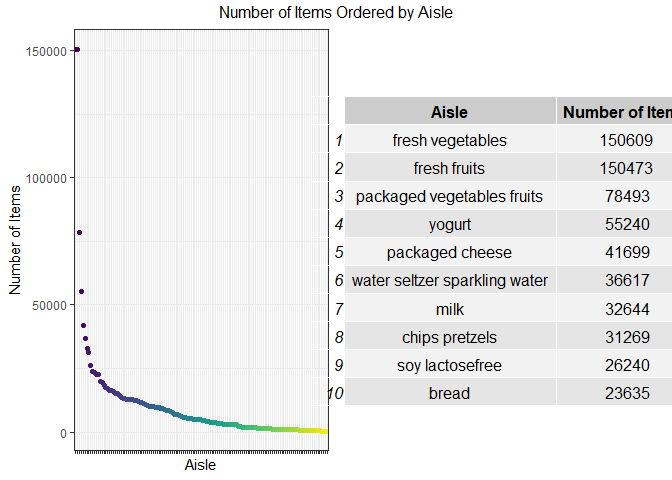
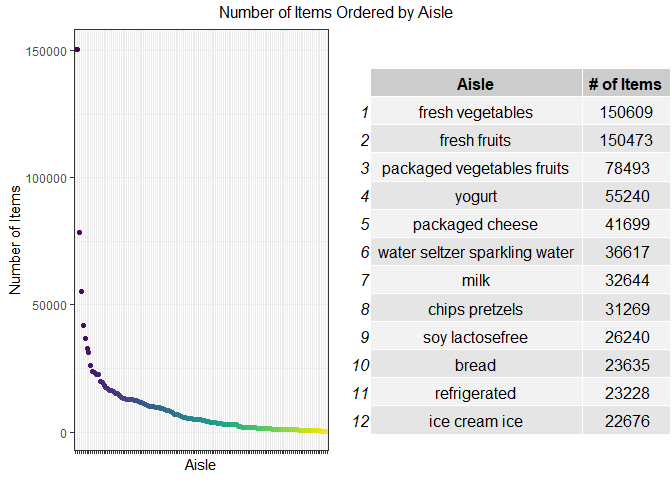
formatting updates

diff --git a/p8105_hw3_alc2279.md b/p8105_hw3_alc2279.md
@@ -112,48 +112,43 @@ brfss_data %>%
   ggplot(aes(x = year, y = n_locations, color = state)) + 
     geom_path() + 
     labs(
-      title = "Number of Resturant Health Inspections per State (2002 - 2010)",
+      title = "Number of Counties with Health Inspections (2002-2010)",
       x = "Year",
-      y = "Number of Observations",
+      y = "Number of Counties",
       caption = "Data from the BRFSS SMART 2010"
-    )
+    ) + 
+    theme(legend.position = "right") 
 ```
 
 ![](p8105_hw3_alc2279_files/figure-markdown_github/unnamed-chunk-4-1.png)
 
 ``` r
 ## table to help interpret plot
-brfss_data %>% 
+inspections_state_year = 
+  brfss_data %>% 
   group_by(year, state) %>% 
   summarize(n_locations = n_distinct(state_county)) %>% 
   arrange(desc(n_locations)) %>% 
-  head(20)
+  rename(Year = year, State = state, "Number of Counties" = n_locations) %>% 
+  head(12)
+
+knitr::kable(inspections_state_year)
 ```
 
-    ## # A tibble: 20 x 3
-    ## # Groups:   year [8]
-    ##     year state n_locations
-    ##    <int> <chr>       <int>
-    ##  1  2007 FL             44
-    ##  2  2010 FL             41
-    ##  3  2005 NJ             19
-    ##  4  2006 NJ             19
-    ##  5  2009 NJ             19
-    ##  6  2010 NJ             19
-    ##  7  2008 NJ             18
-    ##  8  2007 NJ             16
-    ##  9  2008 NC             16
-    ## 10  2010 TX             16
-    ## 11  2004 NC             15
-    ## 12  2005 NC             15
-    ## 13  2006 NC             15
-    ## 14  2007 NC             15
-    ## 15  2009 NC             15
-    ## 16  2003 NJ             14
-    ## 17  2004 NJ             14
-    ## 18  2005 OK             14
-    ## 19  2006 WA             14
-    ## 20  2006 MD             13
+|  Year| State |  Number of Counties|
+|-----:|:------|-------------------:|
+|  2007| FL    |                  44|
+|  2010| FL    |                  41|
+|  2005| NJ    |                  19|
+|  2006| NJ    |                  19|
+|  2009| NJ    |                  19|
+|  2010| NJ    |                  19|
+|  2008| NJ    |                  18|
+|  2007| NJ    |                  16|
+|  2008| NC    |                  16|
+|  2010| TX    |                  16|
+|  2004| NC    |                  15|
+|  2005| NC    |                  15|
 
 This plot shows that throughout the years, most states have less than 10 observations. There does appear to be a slight increase in observations; while in 2002, most states had less than 10 observations, in 2010, most states had less than 15 observations.
 
@@ -164,27 +159,30 @@ There are a few states with consistently more observations throughout the years,
 -   Make a table showing, for the years 2002, 2006, and 2010, the mean and standard deviation of the proportion of “Excellent” responses across locations in NY State.
 
 ``` r
-brfss_data %>% 
+excellent_responses_data = 
+  brfss_data %>% 
   group_by(state_county) %>% 
   filter(year %in% c("2002", "2006", "2010"),
          state == "NY",
          response == "Excellent") %>%
   summarize(excellent_mean = mean(proportion, na.rm = TRUE), 
-            excellent_sd = sd(proportion, na.rm = TRUE))
+            excellent_sd = sd(proportion, na.rm = TRUE)) %>% 
+  rename("State and County" = state_county, "Mean of Excellent Ratings" = excellent_mean, "SD of Excellent Ratings" = excellent_sd)
+
+knitr::kable(excellent_responses_data)
 ```
 
-    ## # A tibble: 9 x 3
-    ##   state_county            excellent_mean excellent_sd
-    ##   <chr>                            <dbl>        <dbl>
-    ## 1 NY - Bronx County                 17.6      NaN    
-    ## 2 NY - Erie County                  17.2      NaN    
-    ## 3 NY - Kings County                 20.4        1.77 
-    ## 4 NY - Monroe County                22.4      NaN    
-    ## 5 NY - Nassau County                24.9        2.82 
-    ## 6 NY - New York County              27.5        1.54 
-    ## 7 NY - Queens County                19.6        1.36 
-    ## 8 NY - Suffolk County               24.1        3.28 
-    ## 9 NY - Westchester County           26.4        0.636
+| State and County        |  Mean of Excellent Ratings|  SD of Excellent Ratings|
+|:------------------------|--------------------------:|------------------------:|
+| NY - Bronx County       |                   17.60000|                      NaN|
+| NY - Erie County        |                   17.20000|                      NaN|
+| NY - Kings County       |                   20.36667|                1.7672955|
+| NY - Monroe County      |                   22.40000|                      NaN|
+| NY - Nassau County      |                   24.93333|                2.8219379|
+| NY - New York County    |                   27.50000|                1.5394804|
+| NY - Queens County      |                   19.63333|                1.3576941|
+| NY - Suffolk County     |                   24.10000|                3.2787193|
+| NY - Westchester County |                   26.45000|                0.6363961|
 
 The nine counties in NY that have reported observations in 2002, 2006 and 2010 have a range of excellent proportions from 17.2 in Erie County to 27.5 in New York County. The counties with no standard deviation are those that only had observations in one year, so the mean is the mean proportion for only that one year.
 
@@ -251,29 +249,28 @@ The goal is to do some exploration of this dataset. To that end, write a short d
 
 ### Response
 
-The instacart dataset has 1384617 rows and 15 columsn in the data. Each row in the dataset includes information about one item that was included in an order. Variables for each include order information (the order in which it was added to the cart, the time/day that the order was placed, if it was a reorder, etc.) and information about the product (which aisle/department it falls in, the product name/id, etc.). Some key variables that I expect to use to further explore the data (not just in this homework) are the product aisle, when the order was placed, whether it was a reorder, and the order number (to look at what basekts look like). A question that I would be interested asking is, "Are items that placed first in to the basket nore likely to be reorder items than subsequent items placed in the basket?." Using the code below, I did a prelimarly inspection of this question and found that it does appear that items added to the cart first tend to be reorder items.
+The instacart dataset has 1384617 rows and 15 columns in the data. Each row in the dataset includes information about one item that was included in an order. Variables for each include order information (the order in which it was added to the cart, the time/day that the order was placed, if it was a reorder, etc.) and information about the product (which aisle/department it falls in, the product name/id, etc.). Some key variables that I expect to use to further explore the data (not just in this homework) are the product aisle, when the order was placed, whether it was a reorder, and the order number (to look at what basekts look like). A question that I would be interested asking is, "Are items that placed first in to the basket nore likely to be reorder items than subsequent items placed in the basket?." Using the code below, I did a prelimarly inspection of this question and found that it does appear that items added to the cart first tend to be reorder items.
 
 ``` r
-instacart_data %>% 
+reorder_add_to_cart_order_data = 
+  instacart_data %>% 
   group_by(reordered, add_to_cart_order) %>% 
   summarize(n = n()) %>% 
-  spread(key = reordered, value = n)
+  spread(key = reordered, value = n) %>% 
+  rename("Add to Cart Order" = add_to_cart_order, "Not a Reordered Item" = "0", 
+         "Reordered Item" = "1") %>% 
+  head(5)
+
+knitr::kable(reorder_add_to_cart_order_data)
 ```
 
-    ## # A tibble: 80 x 3
-    ##    add_to_cart_order   `0`   `1`
-    ##                <int> <int> <int>
-    ##  1                 1 36392 94817
-    ##  2                 2 37448 86916
-    ##  3                 3 38846 78150
-    ##  4                 4 38471 70492
-    ##  5                 5 38001 62744
-    ##  6                 6 36280 55570
-    ##  7                 7 34194 48948
-    ##  8                 8 31381 43220
-    ##  9                 9 28875 37743
-    ## 10                10 26049 33352
-    ## # ... with 70 more rows
+|  Add to Cart Order|  Not a Reordered Item|  Reordered Item|
+|------------------:|---------------------:|---------------:|
+|                  1|                 36392|           94817|
+|                  2|                 37448|           86916|
+|                  3|                 38846|           78150|
+|                  4|                 38471|           70492|
+|                  5|                 38001|           62744|
 
 Part 3: EDA - Some questions
 ----------------------------
@@ -338,7 +335,6 @@ library(gridExtra)
 ``` r
 library(ggplot2)
 
-
 ##plot
 plot_items_per_aisle = 
   instacart_data %>% 
@@ -364,12 +360,12 @@ instacart_items_per_aisle =
   group_by(aisle) %>% 
   summarize(n_items = n()) %>%
   arrange(desc(n_items)) %>% 
-  rename(Aisle = aisle, "Number of Items" = n_items) %>% 
-  head(10)
+  rename(Aisle = aisle, "# of Items" = n_items) %>% 
+  head(12)
 
-table_for_plot = tableGrob(instacart_items_per_aisle)
+instacart_items_per_aisle_for_plot = tableGrob(instacart_items_per_aisle)
 
-grid.arrange(plot_items_per_aisle, table_for_plot, nrow=1, 
+grid.arrange(plot_items_per_aisle, instacart_items_per_aisle_for_plot, nrow=1, 
              top="Number of Items Ordered by Aisle")
 ```
 
@@ -384,7 +380,8 @@ This plot and table shows how many items were ordered for each of the 134 aisles
 ### Response
 
 ``` r
-instacart_data %>% 
+most_popular_items_data = 
+  instacart_data %>% 
   group_by(aisle, product_name) %>% 
   filter(aisle %in% c("baking ingredients", 
                       "dog food care", 
@@ -392,16 +389,16 @@ instacart_data %>%
   summarize(n_items = n()) %>%
   arrange(aisle, desc(n_items)) %>%
   filter(n_items == max(n_items)) %>% 
-  select(aisle, product_name)
+  select(Aisle = aisle, Product = product_name)
+
+knitr::kable(most_popular_items_data)
 ```
 
-    ## # A tibble: 3 x 2
-    ## # Groups:   aisle [3]
-    ##   aisle                      product_name                                 
-    ##   <chr>                      <chr>                                        
-    ## 1 baking ingredients         Light Brown Sugar                            
-    ## 2 dog food care              Snack Sticks Chicken & Rice Recipe Dog Treats
-    ## 3 packaged vegetables fruits Organic Baby Spinach
+| Aisle                      | Product                                       |
+|:---------------------------|:----------------------------------------------|
+| baking ingredients         | Light Brown Sugar                             |
+| dog food care              | Snack Sticks Chicken & Rice Recipe Dog Treats |
+| packaged vegetables fruits | Organic Baby Spinach                          |
 
 The most popular items in the three specified aisle are found in the above table. Light brown sugar, snack sticks (chicken and rice recipe) and organic baby spinach are the most popular items in the baking, dog food and packaged vegetable/fruits aisle, respectively.
 
@@ -412,19 +409,21 @@ The most popular items in the three specified aisle are found in the above table
 ### Response
 
 ``` r
-instacart_data %>% 
+coffee_apple_data = 
+  instacart_data %>% 
   group_by(product_name, order_dow) %>% 
   filter(product_name %in% c("Pink Lady Apple", "Coffee Ice Cream")) %>%
   summarize(hour_of_day_mean = mean(order_hour_of_day, na.rm = TRUE)) %>% 
-  spread(key = order_dow, value = hour_of_day_mean)
+  spread(key = order_dow, value = hour_of_day_mean) %>% 
+  rename(Product = product_name)
+
+knitr::kable(coffee_apple_data)
 ```
 
-    ## # A tibble: 2 x 8
-    ## # Groups:   product_name [2]
-    ##   product_name     Monday Tuesday Wednesday Thursday Friday Saturday Sunday
-    ##   <chr>             <dbl>   <dbl>     <dbl>    <dbl>  <dbl>    <dbl>  <dbl>
-    ## 1 Coffee Ice Cream   13.8    14.3      15.4     15.3   15.2     12.3   13.8
-    ## 2 Pink Lady Apple    14.4    14.2      13.2      8     11       16     13
+| Product          |    Monday|   Tuesday|  Wednesday|  Thursday|    Friday|  Saturday|    Sunday|
+|:-----------------|---------:|---------:|----------:|---------:|---------:|---------:|---------:|
+| Coffee Ice Cream |  13.77419|  14.31579|   15.38095|  15.31818|  15.21739|  12.26316|  13.83333|
+| Pink Lady Apple  |  14.40000|  14.20000|   13.20000|   8.00000|  11.00000|  16.00000|  13.00000|
 
 From Tuesday through Friday, coffee ice cream is ordered later in the day than pink lady apples, but from Saturday through Monday, pink lady apples are ordered later in the day. The earliest that either item is ordered is on Thursday at 8am (pink lady apples) and the latest that either item is ordered is on Saturday (pink lady apples).
 
@@ -442,43 +441,8 @@ The goal is to do some exploration of this dataset. To that end, write a short d
 
 ``` r
 library(p8105.datasets)
-
 noaa_data = ny_noaa
-
-round(sum(is.na(noaa_data$prcp)) / nrow(noaa_data) * 100, 1)
 ```
-
-    ## [1] 5.6
-
-``` r
-sum(is.na(noaa_data$tmin)) / nrow(noaa_data)
-```
-
-    ## [1] 0.4371264
-
-``` r
-sum(is.na(noaa_data$tmax)) / nrow(noaa_data)
-```
-
-    ## [1] 0.4371025
-
-``` r
-sum(is.na(noaa_data$snow))/ nrow(noaa_data)
-```
-
-    ## [1] 0.146896
-
-``` r
-min(noaa_data$date)
-```
-
-    ## [1] "1981-01-01"
-
-``` r
-nrow(noaa_data)
-```
-
-    ## [1] 2595176
 
 ### Response
 
@@ -486,11 +450,11 @@ The NOAA dataset consists of 2595176 rows and 7 columns. Each row is reports the
 
 There is a large issue with missing data. Below is a summary of the null values found in this dataset:
 
--   Percent of null prcp values: 5.6
--   Percent of null snow values: 14.7
--   Percent of null snwd values: 22.8
--   Percent of null tmin values: 43.7
--   Percent of null tmax values: 43.7
+-   Percent of null prcp values: 5.6%
+-   Percent of null snow values: 14.7%
+-   Percent of null snwd values: 22.8%
+-   Percent of null tmin values: 43.7%
+-   Percent of null tmax values: 43.7%
 
 Part 2: EDA - Answer some questions
 -----------------------------------
@@ -585,7 +549,7 @@ library(patchwork)
 tmin_tmax_plot = ggplot(noaa_data, aes(x = tmin, y = tmax)) + 
   stat_bin_hex (bins = 70) + 
   labs(
-    title = "Max and Min Temperature (1981 - 2010)",
+    title = "Max and Min Temperature (1981-2010)",
     x = "Minimum Temperature (Degrees Celsius)",
     y = "Maximum Temperature (Degrees Celsius)",
     caption = "Data from the NOAA")+ 
